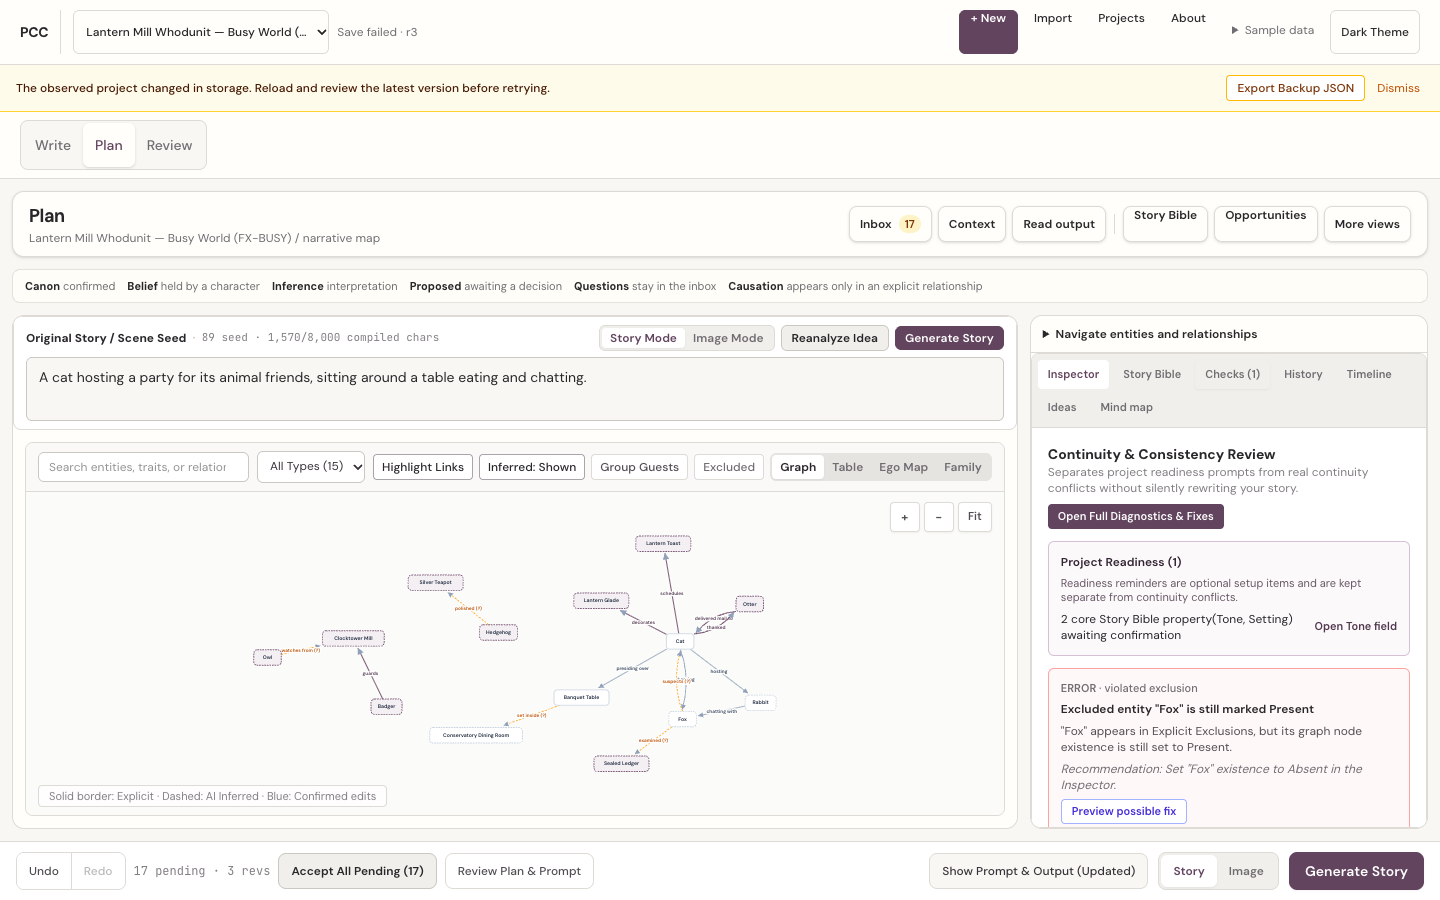
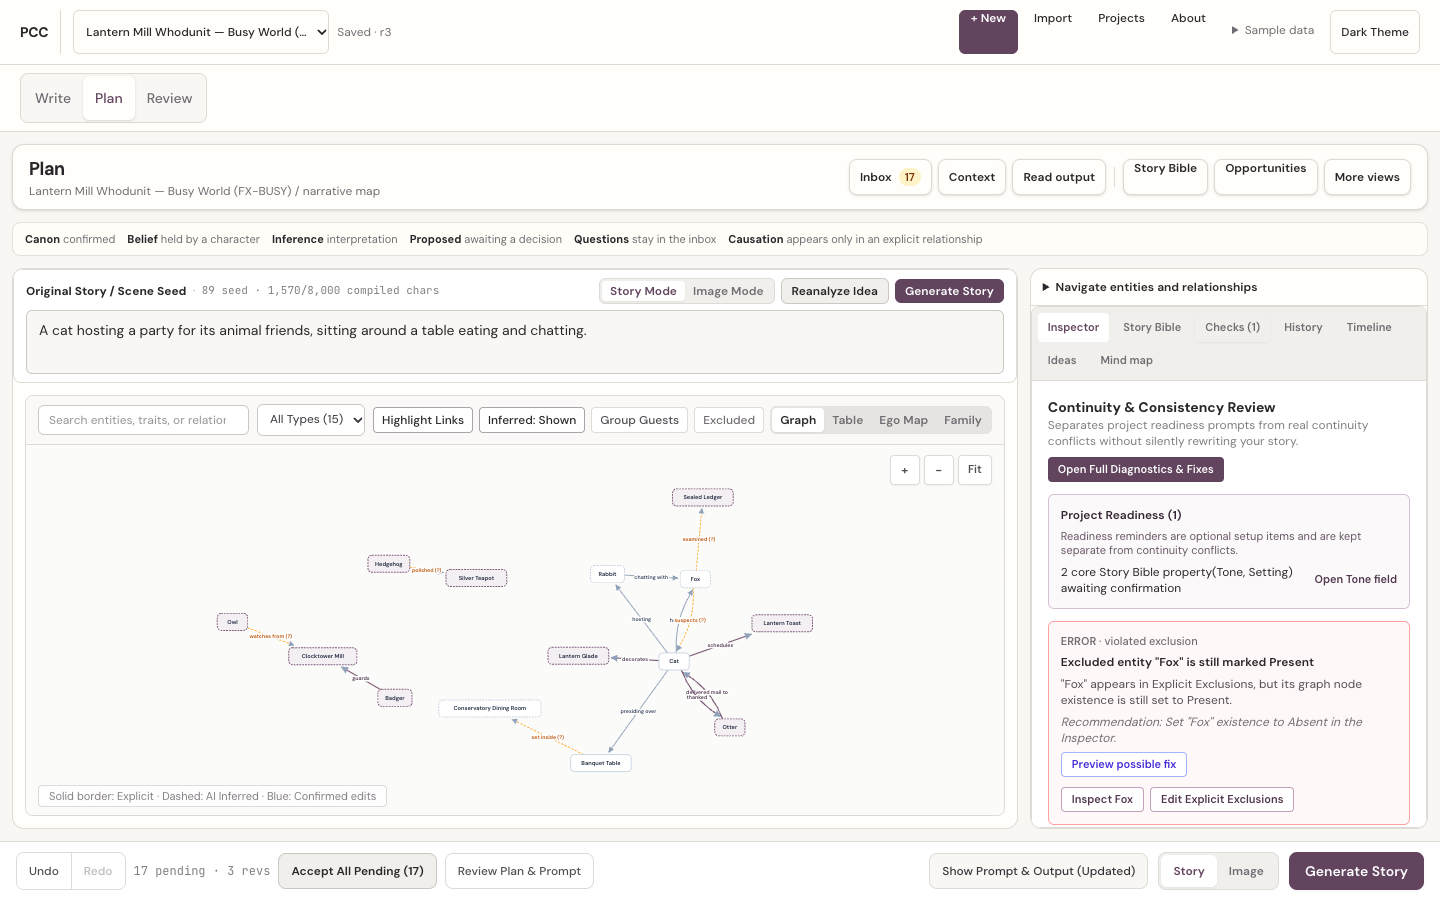
fix(ui): complete PCC adaptive draftroom acceptance

diff --git a/components/workspace/StorageAlertBanner.tsx b/components/workspace/StorageAlertBanner.tsx
@@ -36,6 +36,18 @@ const StorageAlertBanner: React.FC<StorageAlertBannerProps> = ({
   onDismissStorageAlert,
   onDismissStatusNotification,
 }) => {
+  const dismissStatusRef = React.useRef(onDismissStatusNotification);
+
+  React.useEffect(() => {
+    dismissStatusRef.current = onDismissStatusNotification;
+  }, [onDismissStatusNotification]);
+
+  React.useEffect(() => {
+    if (!statusNotification) return;
+    const timeout = window.setTimeout(() => dismissStatusRef.current(), 8_000);
+    return () => window.clearTimeout(timeout);
+  }, [statusNotification]);
+
   return (
     <>
       {storageAlert && (
@@ -108,7 +120,7 @@ const StorageAlertBanner: React.FC<StorageAlertBannerProps> = ({
 
       {statusNotification && (
         <div
-          className="px-3 pt-2 xl:p-0 xl:fixed xl:bottom-20 xl:right-4 xl:z-[1850] xl:w-full xl:max-w-md pointer-events-auto flex-shrink-0"
+          className="fixed bottom-20 left-3 right-3 z-[1850] pointer-events-auto xl:right-4 xl:left-auto xl:w-full xl:max-w-md"
           role="status"
           aria-live="polite"
         >
@@ -117,7 +129,7 @@ const StorageAlertBanner: React.FC<StorageAlertBannerProps> = ({
             <button
               type="button"
               onClick={onDismissStatusNotification}
-              className="text-gray-300 hover:text-white px-1.5 py-0.5 rounded"
+              className="min-h-11 min-w-11 inline-flex items-center justify-center text-gray-300 hover:text-white rounded"
               aria-label="Dismiss status notification"
             >
               &times;

diff --git a/docs/qa/c01-c05-final-qualification.md b/docs/qa/c01-c05-final-qualification.md
@@ -1,0 +1,92 @@
+# PCC C01–C05 final qualification record
+
+Date: 2026-11-25
+
+Branch: `codex/pcc-uiux-final-implementation`
+
+Accepted base: `d97fef0805f792304a7cc6f23d5cadcd9ed73845`
+
+Approved Figma: [PCC Adaptive Draftroom](https://www.figma.com/design/U5cfM5KO4tuFsT1IoM3U44), handoff `48:2`
+
+Environment: isolated local worktrees and private Chromium contexts; synthetic data only; `/api/health` returned `configured:false` for final bounded browser probes.
+
+## Candidate and change boundary
+
+This qualification extends the previously reviewed integration candidate `0599ced916740b0be9c0ac977ef0641183b03635` (tree `980661899ef6ff7bb7fb636d46a66584d30e050c`) with a narrowly scoped Q01 selection-integrity fix, shared mobile status-notice correction, and stronger QA evidence instrumentation. The final commit/tree identities and hosted CI result are recorded in the PR after publication.
+
+The original Human Owner checkout and VIP Figma file were not modified. No production deployment, merge, provider call, paid service, dependency upgrade, or lockfile change occurred.
+
+## C01–C05 acceptance matrix
+
+| Workstream | Result | Evidence and remaining boundary |
+|---|---|---|
+| C01 — shared persistence, project creation and navigation | PASS within tested flows | Global status derives from editor dirtiness and persistence state. New-project creation waits for durable persistence before selecting the new project. Cancel/failure retains the current stable workspace. Reset Sample Plan remains under explicit disclosure and confirmation. J09 restored Plan/Review without reseeding the stable preference. |
+| C02 — Write, Focus and editing continuity | PASS for tested browser flows | Existing manuscript editor remains the only draft authority. Focus return retains scene, scroll and focus; selection is restored only when the exact selected text still matches, otherwise it safely collapses rather than selecting unrelated text. Synthetic Turkish/Unicode and IME composition checks passed. OS-level IME and assistive technology were not tested. |
+| C03 — Plan and narrative intelligence | PASS with responsive limitation | Live graph and inspector are retained; adaptive context, Decision Inbox, generated-output surface, Story Bible, opportunities, and Graph/Table/Ego/Family/Timeline/Mind Map remain available. At 320px graph height and label density remain constrained. |
+| C04a — Review, evidence and proposals | PASS for stale-proposal contract | A proposal made at revision 6 became stale after a deferred decision advanced revision 7; Apply was absent, refresh was offered, direct mutation with the stale expected revision was rejected, and storage remained unchanged. A fresh proposal applied only after author action and persisted at revision 8. |
+| C04b — Projects, Import, history and recovery | PASS for exercised flows; partial cancellation coverage | Source-only import preserved Unicode source/provenance and created one durable project without claiming semantic analysis. Empty Import exit returned to the prior stable mode without changing project count. Durable failure/retry created exactly one project. History and restore journeys were covered by existing synthetic scenarios. In-flight analysis cancellation and cancellation after staging a source were NOT TESTED. |
+| C05 — independent bounded QA | PASS on bounded Q01–Q05 checks; full release/accessibility certification NOT CLAIMED | Independent browser probes covered retryable save failure, stale mutation rejection, compact navigation/focus, workspace restoration, import empty-state cancellation, and History read-only behavior. Limits are enumerated below. |
+
+## Additional bounded browser evidence
+
+### Save-state truthfulness and retry
+
+At 320px, the save notice dismiss control is 44×44 CSS px. The notice is fixed over content on compact screens and auto-dismisses after eight seconds; the manuscript editor no longer loses usable height while a transient notice is present. A synthetic IndexedDB quota failure showed `Save failed`, preserved the draft buffer and previous durable record, and allowed retry. Retrying persisted the exact Unicode text `Retryable draft — Türkçe çığ 🦉 é` and advanced the persisted revision. Draft, failure and retry captures are under `evidence/browser/final-qualification-2026-11-25/`.
+
+### Stale proposal and evidence
+
[1 lines of base64/hex data omitted]
+
+### Source-only import and return paths
+
[1 lines of base64/hex data omitted]
+
+### Compact navigation and accessibility observations
+
+At 320px, keyboard navigation between Write, Plan, Review and back preserved dirty text and the stable mode. Document horizontal overflow was absent. The dismiss target measured 44×44 and keyboard focus showed a visible two-pixel ring. On the previous candidate, Review had two enabled native radio controls with 13×13 glyphs and associated label hit regions of 238×16 and 254×32; their centers were about 33.5px apart, so their 24px target circles do not overlap. A disabled 13px checkbox and disabled 64×22 numeric input are disabled controls. This is a bounded observation and does not establish general target-size conformance. Screen reader, VoiceOver and full WCAG 2.2 AA certification were not performed.
+
+## Automated verification on integrated source
+
+After the shared mobile notice and harness updates, a fresh `npm ci` completed with the existing package files unchanged. The following commands passed on the integrated source snapshot:
+
+- `npm run typecheck`
+- `npm run lint`
+- `npm test -- --run`: 302 passed, 0 failed
+- `npm run build`
+- Stage0 J01–J12: 12/12 passed
+- Browser E2E A–I: 9/9 passed
+- Narrative workspace browser scenario: passed
+
[1 lines of base64/hex data omitted]
+
+J10 before/after semantic digests matched within the same run, revision and IndexedDB write count were stable. The digest can change between separate runs because snapshot timestamps are dynamic; only the within-run equality is an invariant here.
+
+Build output retains existing Zod annotation warnings and a large-chunk warning (main bundle about 1.01 MB; PDF worker about 1.05 MB). `npm ci` reported seven moderate audit advisories. These were not changed because dependency modernization/remediation was outside the authorized scope.
+
[1 lines of base64/hex data omitted]
+
+## Visual evidence map
+
+Approved Figma node references: Desktop Write `10:2`; Mobile Write `16:2`; Focus `18:2`; Focus return `41:167`; Plan `13:2`; connected graph `45:32`; Review `14:2`; Mobile dark Review `16:29`; Projects `15:2`; Import `15:45`; Revision History `18:31`; recovery `44:174`.
+
+Browser captures are under `evidence/browser/` and `evidence/browser/final-qualification-2026-11-25/`. They show actual application rendering and synthetic interaction states. The stale proposal capture is behaviorally matched to the stale Review flow; the separate Q05 captures show stable-workspace return and the empty Import exit. They are not pixel-perfect or complete equivalent-state comparisons for every Figma node. Visual acceptance gaps include full contextual selected-prose Write and all dark/light and responsive states side-by-side.
+
+## Remaining mismatch and qualification register
+
+| Classification | Item | Disposition |
+|---|---|---|
+| Observed and corrected | Compact transient save status displaced the manuscript editor; dismiss control was undersized | Corrected with fixed compact positioning, 44×44 dismiss target, auto-dismiss; 320px browser retest and narrative scenario passed. |
+| Observed and corrected | Stale selection offsets could select unrelated text after intervening edits | Q01 fix now verifies exact selected-text identity and safely collapses selection if the anchor is stale. |
+| Tested limitation | Plan graph area and labels are dense at 320px | Record as remaining responsive UX limitation; no graph replacement or static mock was introduced. |
+| Not tested | Source-staged/in-flight import cancellation and delayed AI result after cancellation | No extraction operation was started because provider configuration was unavailable and no paid call was authorized. |
+| Not tested | OS screen reader/VoiceOver and complete WCAG 2.2 AA audit | No certification claim. Automated and keyboard checks are partial evidence only. |
+| Incomplete visual evidence | Complete equivalent-state Figma/browser pairs for selected-text contextual Write, stale proposal evidence details, and all required theme/viewport combinations | Retain as explicit limitation for architect review. |
+| Build/security advisories | Existing Zod warnings, large bundles and seven moderate npm audit advisories | Not part of this bounded correction; no dependency changes. |
+
+## Six-Cycle refinement and DMAIC control
+
+The consolidated six-cycle review challenged: (1) complete scope and capability preservation; (2) domain authorities and shared interfaces; (3) cross-workspace integration; (4) stale/failure/recovery behavior; (5) responsive, keyboard and accessibility evidence; and (6) exact candidate and CI evidence. DMAIC control used the approved scope (**Define**), recorded baseline and browser measurements (**Measure**), traced reproduced save/selection/compact-layout defects (**Analyze**), changed only the narrow shared UI and selection behavior (**Improve**), and retained evidence and exact-head checks for the draft PR (**Control**). It did not restart discovery, design exploration, dependency modernization or technical remediation.
+
+## Release status
+
+The candidate remains a **draft PR** pending the Principal Architect's independent review and exact-head hosted CI. This qualification supports review of the implemented correction package; it does not claim full WCAG certification, provider behavior, in-flight import cancellation, or completion of every equivalent-state visual comparison.

diff --git a/docs/qa/c05-independent-acceptance.md b/docs/qa/c05-independent-acceptance.md
@@ -1,6 +1,6 @@
 # C05 independent acceptance protocol
 
-Status: **partial; independent reviewer recommends Principal Architect review, not final C05 acceptance**
+Status at preparation snapshot: **partial**. The later bounded Q01–Q05 follow-up and its limits are recorded below; see [`c01-c05-final-qualification.md`](c01-c05-final-qualification.md) for the consolidated disposition.
 Prepared on base: `4281e497dca2bd81d297bb8a870a8892e025d936`
 Scope: visual and behavioral acceptance for the PCC Adaptive Draftroom UI work. This protocol is not a release verdict.
 
@@ -56,7 +56,18 @@ The existing J10 browser assertion does not compare a semantic snapshot digest b
 - Figma and browser screen captures are mapped in `docs/implementation/narrative-workspace/design-qa.md`; the stale Review proposal/evidence state and selected-prose contextual Write still lack equivalent-state side-by-side captures.
 - Stage0 J01/J09/J10 have no page errors but report 1/3/1 unmocked API hits and visible console HTTP 500 errors, respectively. The run's health check reported `configured:false`; preserve the console outcomes as observed rather than describing Stage0 as console-clean. E2E A–I is a separate run and reported no page/console errors.
 
-**Current C05 disposition:** enough for the Principal Architect to inspect the implementation direction and decide whether to keep the candidate in draft PR #15. C05 final acceptance remains incomplete until the remaining matrix rows are exercised or explicitly accepted as limitations, and equivalent-state visuals are reviewed.
+**C05 disposition at the preparation snapshot:** enough for the Principal Architect to inspect the implementation direction and decide whether to keep the candidate in draft PR #15. The later bounded follow-up below supersedes this historical status for the checks it actually exercised; uncovered matrix rows and equivalent-state visual gaps remain open.
+
+## Bounded follow-up after preparation snapshot — 2026-11-25
+
+The initial C05 review above is historical. Follow-up probes were performed against the integrated correction source in isolated Chromium contexts. These later results do not erase the explicit limitations above:
+
+- Save failure/retry retained the Unicode draft after injected IndexedDB quota failure, showed `Save failed`, then persisted exact text on retry. Compact status notice is now overlaid and transient, with a 44×44 dismiss target.
+- Live stale proposal browser path advanced r6→r7 by deferral; stale Apply was unavailable and the direct stale-revision mutation was rejected without changing IndexedDB. A fresh proposal was explicitly applied and read back at r8.
+- Source-only import and durable retry succeeded without claims or provider calls. Import cancel was tested only from an empty source screen; staged-source and in-flight cancellation remain **NOT TESTED**.
+- Six Q05 return paths (Write/Plan/Review through Projects/Continue and Import/Exit) retained the stable mode preference. Project inventory/revision/projection digest were unchanged. The synthetic sample has no manuscript narrative, so this is not evidence for non-empty manuscript record preservation in that probe.
+- Targeted 320px toast retest and narrative workspace browser scenario passed. Complete equivalent-state screenshot pairs, screen reader/VoiceOver, and WCAG 2.2 AA certification remain **NOT TESTED**.
+- Stage0 unmocked `/api/ai/capabilities` requests were deliberately trapped by the test harness and fulfilled 500; AI operation routes were mocked. No provider request occurred.
 
 ## Finding classification
 

diff --git a/docs/implementation/narrative-workspace/c01-c05-completion-ledger.md b/docs/implementation/narrative-workspace/c01-c05-completion-ledger.md
@@ -88,3 +88,14 @@ The QA worker added `docs/qa/c05-independent-acceptance.md` and `scripts/c05-fix
 4. **Failure and recovery:** exercised stale proposal rejection, failed/unconfigured AI, storage conflict paths, import/recovery, backup copy and confirmed replacement using synthetic data; cancellation returns safely.
 5. **Responsive/accessibility:** five specified viewports plus 200% zoom-equivalent checked; no overflow or unnamed control. Small touch targets, mobile Plan graph density, full text enlargement and screen-reader behavior remain open.
 6. **Evidence and exact candidate:** screenshots exist for the named screen families and J10 states, though selected-text contextual Write and stale proposal/evidence Review are not equivalent-state matched. C05 final acceptance is partial. Exact final commit/tree, Principal Architect review, and hosted CI are publication gates; PR must remain draft.
+
+## Final bounded correction addendum — 2026-11-25
+
+This addendum supersedes the earlier “C05 PARTIAL” and open-Q01/Q02/Q05 statements above for the bounded checks executed after candidate `0599ced916740b0be9c0ac977ef0641183b03635`. The complete result is in [`docs/qa/c01-c05-final-qualification.md`](../../qa/c01-c05-final-qualification.md).
+
+- Q01/Q02 passed: stale text selection is no longer restored against unrelated text; stale proposal Apply was rejected at the live UI and mutation boundary, with durable storage unchanged. Fresh proposal control was explicitly applied and read back.
+- Q03 passed for source-only import and durable retry. Empty Import exit and no-source cancel were exercised. Staged-source/in-flight extraction cancellation remains NOT TESTED because no extraction was started.
+- Q04 passed for compact dirty-draft navigation and the shared status notice. The notice no longer permanently displaces the 320px editor, its dismiss action is 44×44, and it auto-dismisses after eight seconds. Full assistive-technology/WCAG certification remains unclaimed.
+- Q05 passed for six Projects/Import return paths and stable workspace preference. The synthetic project inventory, revision and canonical projection digest were unchanged through exits and History inspection. The synthetic fixture had no manuscript narrative, limiting that specific preservation claim.
+- Fresh integrated-source checks: typecheck, lint, 302/302 unit tests, build, Stage0 12/12, E2E A–I 9/9, and narrative workspace scenario passed. Stage0's unmocked calls were capability-discovery checks trapped and answered 500; AI operation routes were mocked. No provider call occurred.
+- The report records remaining responsive density, equivalence-capture, screen-reader and staged/in-flight import limitations. Draft PR #15 remains subject to exact-head hosted CI and Principal Architect review.
